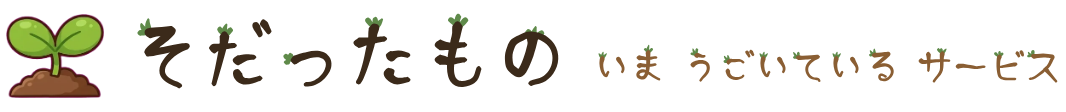
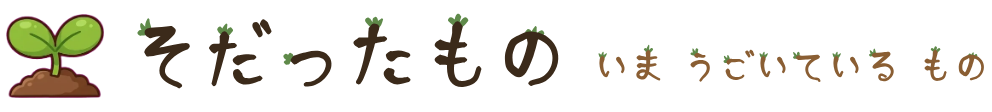
Move spotfy to the grown works

Changed region(s): [[0.0, 0.1071, 1.0, 0.8839]]

diff --git a/README.md b/README.md
@@ -7,29 +7,34 @@
   <sub>An indie developer in Japan. From web and Android apps to a programming language, I build things to find out how they work.</sub>
 </p>
 
-<h2><picture><source media="(prefers-color-scheme: dark)" srcset="assets/head-grown-dark.png"><img src="assets/head-grown-light.png" alt="そだったもの — いま動いているサービス" height="44"></picture></h2>
+<h2><picture><source media="(prefers-color-scheme: dark)" srcset="assets/head-grown-dark.png"><img src="assets/head-grown-light.png" alt="そだったもの — いま動いているサービスとアプリ" height="44"></picture></h2>
 
 <table>
   <tr>
-    <td width="25%" align="center" valign="top">
+    <td width="20%" align="center" valign="top">
       <a href="https://nomige.2nj.lol"><img src="assets/work-nomige.jpg" alt="飲みゲー の画面" width="100%"></a><br>
       <b><a href="https://nomige.2nj.lol">飲みゲー</a></b><br>
       <sub>みんなのスマホで遊ぶ飲み会ゲーム。4桁のルームコードですぐ集合でき、インストールはいりません。</sub>
     </td>
-    <td width="25%" align="center" valign="top">
+    <td width="20%" align="center" valign="top">
       <a href="https://posissue.2nj.lol"><img src="assets/work-posissue.jpg" alt="posissue の画面" width="100%"></a><br>
       <b><a href="https://posissue.2nj.lol">posissue</a></b><br>
       <sub>サイトに1行置くだけで、利用者のバグ報告や要望が GitHub Issue として届くウィジェット。 <a href="https://github.com/ninjin0802/posissue">GitHub</a></sub>
     </td>
-    <td width="25%" align="center" valign="top">
+    <td width="20%" align="center" valign="top">
       <a href="https://sky.2nj.lol"><img src="assets/work-sky.jpg" alt="ほしばたけ の画面" width="100%"></a><br>
       <b><a href="https://sky.2nj.lol">ほしばたけ</a></b><br>
       <sub>いま頭上にひろがる星空を見るアプリ。星座と惑星、そのむかし話、宇宙ステーションの通り道も。</sub>
     </td>
-    <td width="25%" align="center" valign="top">
+    <td width="20%" align="center" valign="top">
       <a href="https://mho.2nj.lol"><img src="assets/work-mho.jpg" alt="MHO装備ジェネレーター の画面" width="100%"></a><br>
       <b><a href="https://mho.2nj.lol">MHO装備ジェネレーター</a></b><br>
       <sub>モンハンアウトランダーズの装備を、ランク・武器・属性から自動で組み立てます。</sub>
+    </td>
+    <td width="20%" align="center" valign="top">
+      <a href="https://github.com/ninjin0802/spotfy/releases/latest"><img src="assets/work-spotfy.jpg" alt="spotfy のアイコン" width="100%"></a><br>
+      <b><a href="https://github.com/ninjin0802/spotfy/releases/latest">spotfy</a></b><br>
+      <sub>Spotify Web Player を公式アプリのように使える、非公式の Android アプリ。 <a href="https://github.com/ninjin0802/spotfy">GitHub</a></sub>
     </td>
   </tr>
 </table>
@@ -39,7 +44,6 @@
 | なまえ | どんなもの | ことば |
 |---|---|---|
 | [kata-lang](https://github.com/ninjin0802/kata-lang) | AI エージェントが書いて読むことを考えた、Android 向けの実験的な言語 | Java |
-| [spotfy](https://github.com/ninjin0802/spotfy) | Spotify Web Player を公式アプリのように使える、非公式の Android アプリ | Kotlin |
 | [にんふぉんと](https://github.com/ninjin0802/font) | にんじんの形をした手書きのフォント。見出しもこの字です | Python |
 | [game-mode](https://github.com/ninjin0802/game-mode) | Pixel 向けの、ワンタップで切り替えるゲームモード | Java |
 | [SnapPurge](https://github.com/ninjin0802/SnapPurge) | スクリーンショットを、端末の中だけで整理する Android アプリ | Kotlin |
